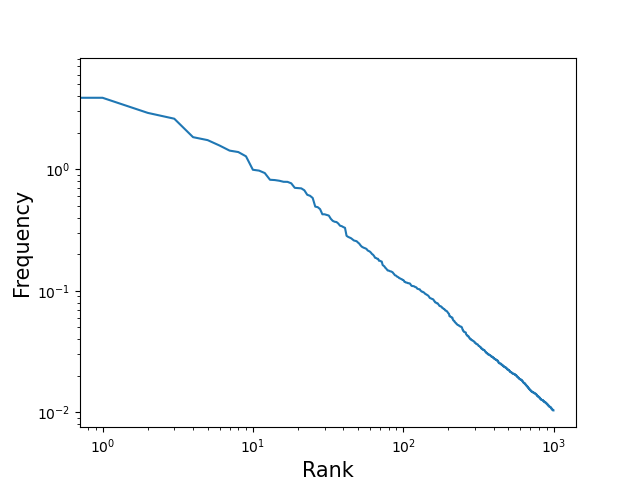
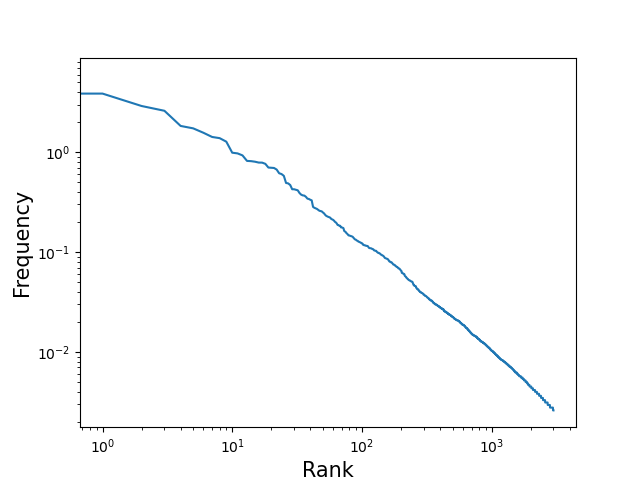
Search for title in dictionary of top 100 books added

diff --git a/stats.py b/stats.py
@@ -2,46 +2,68 @@ import re
 import collections
 import matplotlib.pyplot as plt
 import numpy as np
+import ast
 
+def get_filename_from_title(title):
+    File_100_Books = open("books_dictionary.txt", "r")
+    Contents_100_Books = File_100_Books.read()
+    Dictionary_100_Books = ast.literal_eval(Contents_100_Books)
+    File_100_Books.close()
+    #print(Dictionary_100_Books[2]['Title'])
+    for i in range(len(Dictionary_100_Books)):
+        if Dictionary_100_Books[i]['Title'] == title:
+            return Dictionary_100_Books[i]['Filename']
 
+#print(get_filename_from_title("War and Peace"))
+Title_entered = input("Enter title: " )
+filename = get_filename_from_title(Title_entered)
+#print(filename)
 #file = open("test.txt", "r")
-file = open("war_and_peace.txt", "r")
-
+if filename is not None:
+    file = open(filename, "r")
+else:
+    print("Title was not found.")
+    exit()
 data = file.read()
 data_wout_symbols = re.sub(r'[^\w]', ' ', data) #remove symbols
 words = data_wout_symbols.split() #split text at space
+
+
+########################################################################
+
 
 for i in range(len(words)):
     #make all words lowercase
     words[i] = words[i].lower()
 
 #print(words)
-print('Number of words:', len(words)) #How many words are there in total in the txt file
-frequency_letter = collections.Counter(data_wout_symbols) #count how often each letter occurs
-frequency_words = collections.Counter(words) #count how often each word occurs
+#print('Number of words:', len(words)) #How many words are there in total in the txt file
+Count_of_letter = collections.Counter(data_wout_symbols) #count how often each letter occurs
+Count_of_words = collections.Counter(words) #count how often each word occurs
 #print(frequency_letter) #print all letters and how oftern they occur
-#print(frequency_words.most_common(5)) #print x most common words
-#print(frequency_words.most_common()[-1]) #print word at the end of the list
-#print(frequency_words['war'],frequency_words['peace']) #print frequency of given word
+#print(Count_of_words.most_common(5)) #print x most common words
+#print(Count_of_words.most_common()[-1]) #print word at the end of the list
+#print(Count_of_words['war'],Count_of_words['peace']) #print frequency of given word
 
+def Rank_Frequency_Plot(N):
+    """
+    Plot of rank v frequency of N most common words in text
+    """
+    Most_common_words_decreasing = collections.OrderedDict(Count_of_words.most_common(N)) #most_common returns list and we convert it back into an ordered dictionary for the diagram to work
+    Frequency_common_words = [(i, Count_of_words[i] / len(words) * 100.0) for i,count in Count_of_words.most_common(N)] #Compute with what percentage the words occur
+    Frequency_common_words_decreasing = collections.OrderedDict(Frequency_common_words) #Make ordered dictionary of most common words and with which percentage they occur
+    #print(frequency_percentage[:5]) #print the five most common words with percentage 
 
-#We now do statistics with the N most common words
-#
-
-N = 1000
-
-frequency_words_decreasing = collections.OrderedDict(frequency_words.most_common(N)) #most_common returns list and we convert it back into an ordered dictionary for the diagram to work
-frequency_percentage = [(i, frequency_words[i] / len(words) * 100.0) for i,count in frequency_words.most_common(N)] #Compute with what percentage the words occur
-frequency_percentage_decreasing = collections.OrderedDict(frequency_percentage) #Make ordered dictionary of most common words and with which percentage they occur
-#print(frequency_percentage[:5]) #print the five most common words with percentage 
-
-fig, axes = plt.subplots()
-#Log-Log plot of frequency with which common words occur and their rank
-axes.set_xscale('log')
-axes.set_yscale('log')
-axes.set_xlabel(r'Rank', size=15)
-axes.set_ylabel(r'Frequency', size=15)
-axes.plot(np.arange(0,N,1), frequency_percentage_decreasing.values())
-#list(frequency_percentage_decreasing).index('is') #Position of a given word in list of most common words
-#plt.bar(frequency_percentage_decreasing.keys(), frequency_percentage_decreasing.values())
-plt.savefig('diagram.png')
+    fig, axes = plt.subplots()
+    axes.set_xscale('log')
+    axes.set_yscale('log')
+    axes.set_xlabel(r'Rank', size=15)
+    axes.set_ylabel(r'Frequency', size=15)
+    axes.plot(np.arange(0,N,1), Frequency_common_words_decreasing.values())
+    #list(frequency_percentage_decreasing).index('is') #Position of a given word in list of most common words
+    #plt.bar(frequency_percentage_decreasing.keys(), frequency_percentage_decreasing.values())
+    plt.savefig('diagram.png')
+    
+#Rank_Frequency_Plot(3000)
+#Rank_Frequency_Plot(len(Count_of_words))
+print(len(Count_of_words)/len(words)) #Number of unique words/Number total words
